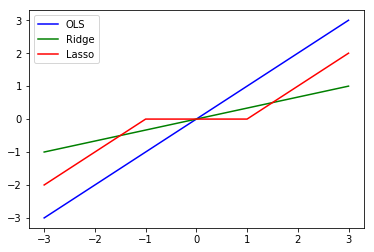
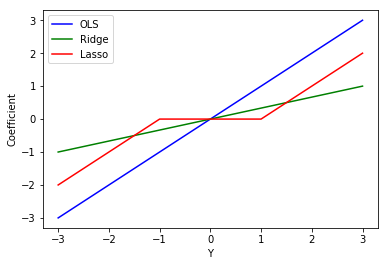
regularized coefficient post

Changed region(s): [[0.0, 0.0278, 1.0, 0.9722], [0.2353, 0.9444, 0.2647, 0.9722]]

diff --git a/_posts/2018-03-04-aaron-jones-regularized-coefficients.md b/_posts/2018-03-04-aaron-jones-regularized-coefficients.md
@@ -4,11 +4,11 @@ title: "Regularized Regression Coefficients"
 date: 2018-03-07
 ---
 
-I use regularized regressions, be it Lasso, Ridge, or Elastic Net, frequently. It is critical and interesting to understand the relative behavior of the coefficients across methodologies. In order to compare the coefficients, I first derive the formulation of the coefficients for both Ridge, which has a nice closed form solution. The LASSO solution I will simply state for the time being. For simplicity, I assume that $\boldsymbol{X}$, the matrix of features, is $\boldsymbol{I}_{nxn}$, the identity matrix (1s on the diagonal, 0s everywhere else). All of the derivations are done using matrix notation.
+I use regularized regressions, be it Lasso, Ridge, or Elastic Net, frequently. It is critical and interesting to understand the relative behavior of the coefficients across methodologies. In order to compare the coefficients, I first derive the formulation of the coefficients for Ridge regression, which has a nice closed form solution. I will simply state the Lasso solution for the time being. For simplicity, I assume that $\boldsymbol{X}$, the matrix of features, is $\boldsymbol{I}_{nxn}$, the identity matrix (1s on the diagonal, 0s everywhere else). All of the derivations are done using matrix notation.
 
 Let PRSS = Penalized Residual Sum of Squares (i.e. the expression that is going to be minimized).
 
-Starting with Ridge regression whose penalization term features the square of the coefficients.
+Here is the PRSS for Ridge regression.
 
 $$PRSS=(\boldsymbol{Y}-\boldsymbol{X}\boldsymbol{\beta})^{T}(\boldsymbol{Y}-\boldsymbol{X}\boldsymbol{\beta})+\lambda\boldsymbol{\beta}^{T}\boldsymbol{\beta}$$
 
@@ -81,7 +81,7 @@ $$\hat{\beta}_{i}^{lasso}=
 
 $$i=1,\dots,n$$
 
-And, finally, the solution to ordinary least squares (OLS) regression has the following solution given the simplicity assumption.
+And finally, the solution to ordinary least squares (OLS) regression has the following solution given the simplicity assumption.
 
 $$
 \begin{aligned}
@@ -100,6 +100,8 @@ So, the OLS coefficients are...
 $$\hat{\beta}_{i}^{ols}=y_{i}$$
 
 $$i=1,\dots,n$$
+
+In this first section of code, I am plotting the coefficient values with respect to lambda, the penalization parameter. The coefficients become smaller as the value for lambda grows. In other words, as the amount of penalization increases. As expected, given the power of two in the penalization term, the Ridge coefficients decrease or increase exponentially toward zero as lambda increases. Notice that the coefficients, besides the coefficient that starts at zero, don't every get to zero. This is because Ridge regression is not a selection operator, it is strictly a shrinkage methodology. In practice, while the coefficients don't ever become zero, they can get quite close to zero. In the Lasso regression case, the coefficients linearly decrease or increase to zero at which point the coefficients become zero. Lasso is principally a selection operator, its goal is to remove variables. Knowing these behaviors is key to being able to select the proper algorithm for a given problem.
 
 ```python
 
@@ -178,6 +180,7 @@ fig.text(0.5, 0.01, 'Lambda', ha='center', va='center')
 ![](/images/2018-03-04-aaron-jones-regularized-coefficients_files/figure-markdown_github/output_5_1.png)
 
 
+In this next chunk, the coefficients are being plotted with respect to the y values given a constant lambda (here, lambda equals 2). As expected, the OLS y to coefficient relationship is linear with a slope of one. The Ridge relationship, because it is strictly a shrinkage methodology, is also linear, but with a slope less than one. The Ridge coefficients are closer to zero on both the positive and negative side than the OLS coefficients. Lastly, the Lasso coefficients have a linear behavior unless the y value is between $-\lambda/2$ and $\lambda/2$, in this case -1 and 1, in which case the coefficients are zero. However, at the start, the Lasso coefficients are closer to zero than the OLS coefficients, but not as close to zero as the Ridge coefficients. To reiterate, understanding how the regression coefficients behave in each of these methodologies is important when attempting to apply these regressions to actual problems.
 
 ```python
 
@@ -226,6 +229,8 @@ for index, column in enumerate(lambda1_df.columns[1:]):
         lambda1_df['y'], lambda1_df[column],
         color = colors[index], label = column
     )
+plt.xlabel('Y')
+plt.ylabel('Coefficient')
 plt.legend()
 
 ```
